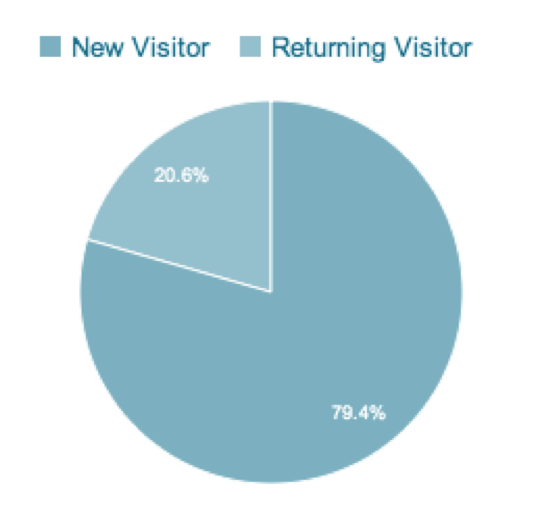
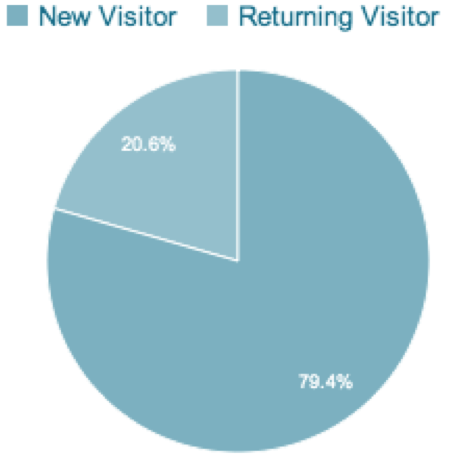
overview is looking a little bit nicer

diff --git a/app/css/overview.scss b/app/css/overview.scss
@@ -6,6 +6,10 @@ $h3: 1.3125em;
 $h4: 1.125em;
 $h5: 1em;
 $small: 0.75em;
+$top1: #90ccde;
+$top2: #E66D00;
+$top3: #963933;
+
 body {
     font-size: 16px;
 }
@@ -16,7 +20,7 @@ body {
         .btn-group {
             .btn {
                 border-radius: 0;
-                border-color: $mainColor;
+                border-color: white;
                 padding: 2px 10px;
                 background-color: steelblue;
                 color: white;
@@ -53,6 +57,43 @@ body {
             }
         }
     }
-
+}
+.stats-wrapper {
+    div {
+        h4 {
+            font-size: $h4;
+        }
+        div {
+            background-color: #ddd;
+            p {
+                font-size: $h1/1.5;
+                margin: 5px 0;
+            }
+        }
+        .toploc-wrapper {
+            background-color: initial;
+            padding: 0;
+            p {
+                font-size: $small;
+                color: white;
+                margin: 0;
+                padding: 5px 10px;
+                &:nth-child(1) {
+                    background-color: $top1
+                }
+                &:nth-child(2) {
+                    background-color: $top2
+                }
+                &:nth-child(3) {
+                    background-color: $top3
+                }
+            }
+        }
+    }
+}
+#pie-wrapper {
+    img.pie {
+        width: 80%;
+    }
 }
 

diff --git a/app/css/overview.css b/app/css/overview.css
@@ -3,7 +3,7 @@ body {
 
 .graph-wrapper .btn-wrapper .btn-group .btn {
   border-radius: 0;
-  border-color: #90ccde;
+  border-color: white;
   padding: 2px 10px;
   background-color: steelblue;
   color: white; }
@@ -25,5 +25,30 @@ body {
       fill: none;
       stroke: #000;
       shape-rendering: crispEdges; }
+
+.stats-wrapper div h4 {
+  font-size: 1.125em; }
+.stats-wrapper div div {
+  background-color: #ddd; }
+  .stats-wrapper div div p {
+    font-size: 2.83333em;
+    margin: 5px 0; }
+.stats-wrapper div .toploc-wrapper {
+  background-color: initial;
+  padding: 0; }
+  .stats-wrapper div .toploc-wrapper p {
+    font-size: 0.75em;
+    color: white;
+    margin: 0;
+    padding: 5px 10px; }
+    .stats-wrapper div .toploc-wrapper p:nth-child(1) {
+      background-color: #90ccde; }
+    .stats-wrapper div .toploc-wrapper p:nth-child(2) {
+      background-color: #E66D00; }
+    .stats-wrapper div .toploc-wrapper p:nth-child(3) {
+      background-color: #963933; }
+
+#pie-wrapper img.pie {
+  width: 80%; }
 
 /*# sourceMappingURL=overview.css.map */

diff --git a/app/inc/overview.html b/app/inc/overview.html
@@ -11,7 +11,7 @@
         <svg class = "chart"></svg> 
     </div>
 </div>
-<div class="row col-md-7">
+<div class="stats-wrapper col-md-8">
     <div class="col-md-6">
         <h4>Engagements</h4>
         <div class="col-md-12">
@@ -26,8 +26,10 @@
     </div>
     <div class="col-md-6">
         <h4>Top Locations</h4>
-        <div class="col-md-12">
-            <img class="img-responsive" src="img/toplocations.png">
+        <div class="toploc-wrapper col-md-12">
+            <p>King's Cross</p>
+            <p>Covent Garden</p>
+            <p>Embankment</p>
         </div>
     </div>
     <div class="col-md-6">
@@ -37,8 +39,8 @@
         </div>
     </div>
 </div>
-<div class="col-md-5">
-    <img src="img/visitorspie.png">
+<div id="pie-wrapper" class="col-md-4">
+    <img class="pie" src="img/visitorspie.png">
 </div>
 <!-- LOAD GRAPH -->
 <script type="text/javascript" src="js/overviewGraphs.js"></script>

diff --git a/app/index.html b/app/index.html
@@ -67,7 +67,7 @@
                     <a href="" ng-click="panel.selectTab(5)">Contact</a>
                 </li>
                 <li role="presentation" class="dropdown">
-                    <a class="dropdown-toggle" href="" data-toggle="dropdown">Alerts <b class="caret"></b></a>
+                    <a class="dropdown-toggle" href="" data-toggle="dropdown">Alerts <b class="glyphicon glyphicon-exclamation-sign"></b></a>
                     <ul class="dropdown-menu" role="menu">
                         <li role="presentation"><a role="menuitem" tabindex="-1" href="#">Campaign ends soon!</a></li>
                         <li role="presentation"><a role="menuitem" tabindex="-1" href="#">High Volume in King's Cross</a></li>
